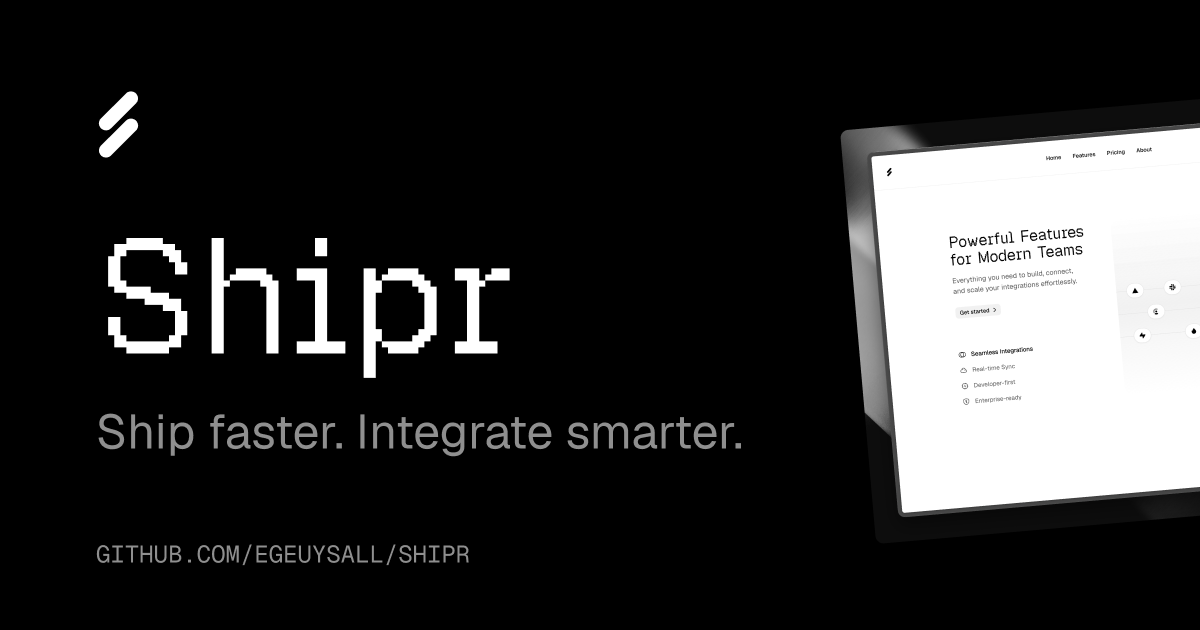
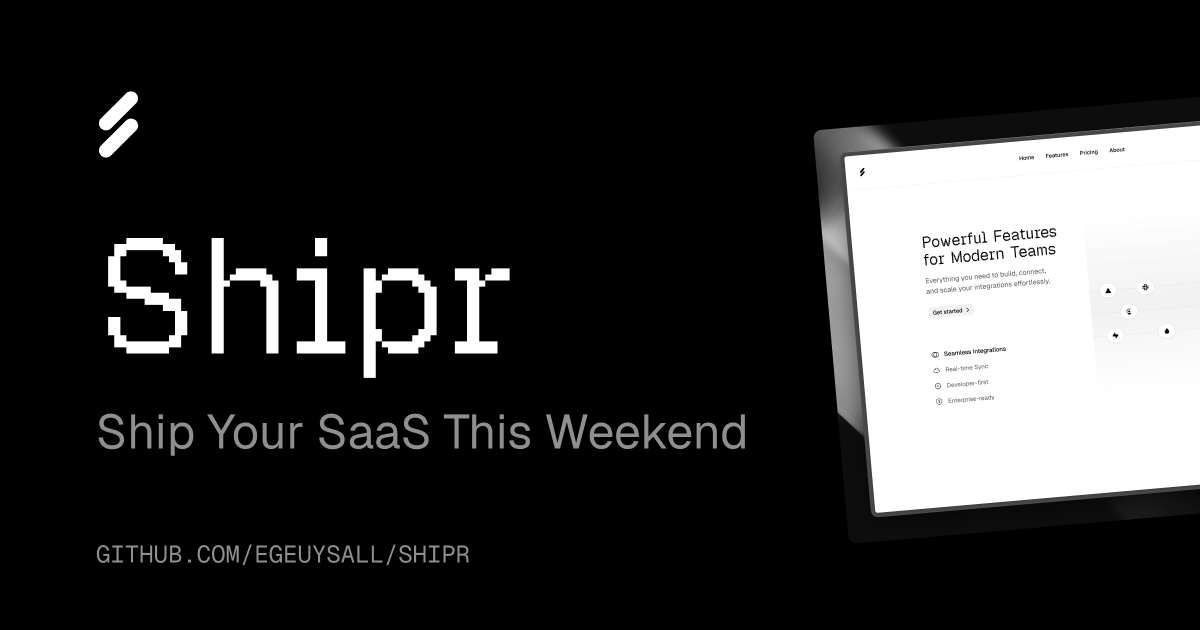
feat(seo): update seo

Changed region(s): [[0.6783, 0.181, 1.0, 0.8444], [0.1542, 0.6333, 0.6475, 0.7238], [0.7708, 0.3619, 0.925, 0.5127]]

diff --git a/src/lib/constants.ts b/src/lib/constants.ts
@@ -6,9 +6,9 @@
  */
 export const SITE_CONFIG = {
   name: "Shipr",
-  tagline: "Ship faster. Integrate smarter.",
+  tagline: "Ship Your SaaS This Weekend.",
   description:
-    "Shipr is your all-in-one engine for adding seamless integrations to your app. Production-ready SaaS starter with auth, billing, and beautiful UI.",
+    "Shipr is a free, open-source SaaS starter that helps you go from zero to launch in 48 hours with Next.js, Convex, Clerk, auth, database wiring, analytics, docs, dashboard, secure uploads, and AI-ready foundations.",
   url: process.env.NEXT_PUBLIC_SITE_URL || "https://shipr.dev",
   locale: "en_US",
   language: "en",
@@ -135,33 +135,33 @@ export const ROBOTS_DISALLOWED = [
  */
 export const PAGE_SEO = {
   home: {
-    title: "Shipr: Ship Faster. Integrate Smarter.",
+    title: "Shipr: Ship Your SaaS This Weekend",
     description:
-      "Build and ship your SaaS in days, not weeks. Shipr is a production-ready starter with auth, billing, integrations, and beautiful UI built on Next.js, Clerk, and Convex.",
+      "Launch your SaaS in 48 hours with Shipr. Get a production-ready Next.js starter with Convex, Clerk, auth, database wiring, analytics, docs, dashboard, secure uploads, and AI-ready building blocks.",
     keywords: [
       "SaaS starter kit",
       "Next.js boilerplate",
       "SaaS template",
-      "ship faster",
-      "integration platform",
+      "launch SaaS fast",
+      "Next.js Convex Clerk starter",
     ],
   },
   features: {
-    title: "Features: Powerful Tools to Build & Scale",
+    title: "Features: Complete SaaS Infrastructure Out of the Box",
     description:
-      "Explore Shipr's powerful features: seamless integrations, authentication, billing, analytics, and more. Everything you need to build, connect, and scale.",
+      "Explore Shipr's complete SaaS stack: Next.js, Convex, Clerk, full auth and DB setup, analytics, docs, dashboard, secure file uploads, and AI-ready foundations.",
     keywords: [
       "SaaS features",
-      "integration tools",
-      "developer tools",
-      "API integrations",
-      "workflow automation",
+      "SaaS infrastructure",
+      "Next.js starter features",
+      "auth and database starter",
+      "AI-ready SaaS template",
     ],
   },
   pricing: {
     title: "Pricing: Simple, Transparent Plans",
     description:
-      "Start for free, upgrade as you grow. Shipr offers simple, transparent pricing with no hidden fees. Free and Pro plans available.",
+      "Start free and upgrade when you are ready. Shipr offers transparent pricing for teams that want to launch quickly and scale with confidence.",
     keywords: [
       "SaaS pricing",
       "free plan",
@@ -171,26 +171,26 @@ export const PAGE_SEO = {
     ],
   },
   about: {
-    title: "About: Our Mission & Story",
+    title: "About Shipr: Built to Help You Launch Faster",
     description:
-      "Learn about Shipr's mission to make integrations effortless. We're building the future of connecting tools so teams can focus on shipping great products.",
+      "Learn why Shipr was built: to remove SaaS boilerplate and help founders and teams launch production-ready products in a weekend.",
     keywords: [
       "about Shipr",
       "our mission",
-      "integration platform company",
-      "developer tools company",
+      "open-source SaaS starter",
+      "launch SaaS faster",
     ],
   },
   docs: {
-    title: "Documentation: Guides, APIs & Tutorials",
+    title: "Documentation: Build with Shipr",
     description:
-      "Get started with Shipr in minutes. Explore guides, API references, SDK documentation, and step-by-step integration tutorials.",
+      "Get started with Shipr quickly. Explore setup guides, usage docs, and practical references to build and ship your SaaS product.",
     keywords: [
       "Shipr documentation",
-      "API reference",
-      "integration guides",
-      "developer docs",
-      "SDK",
+      "SaaS starter docs",
+      "Next.js starter guide",
+      "developer documentation",
+      "Shipr setup",
     ],
   },
   privacy: {
